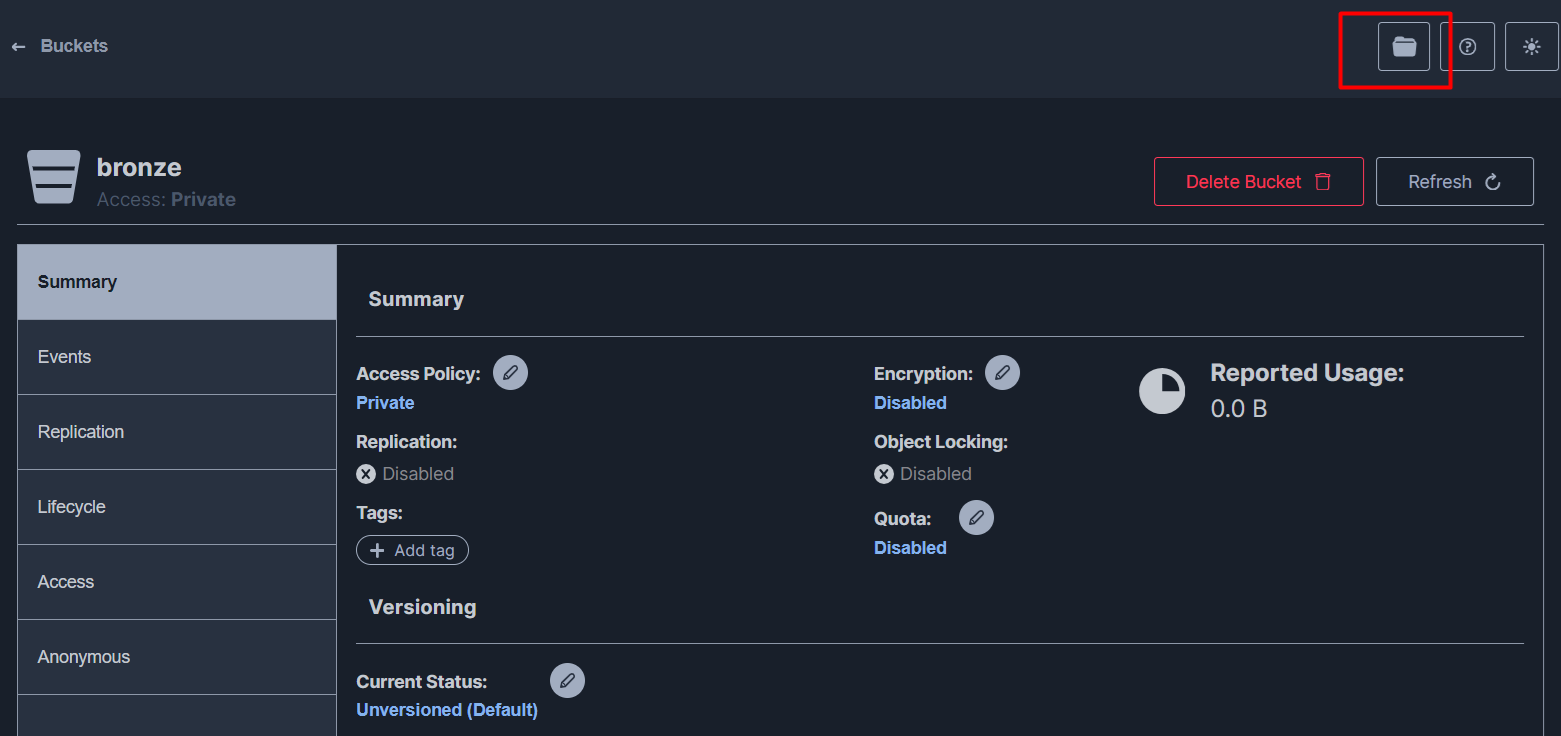
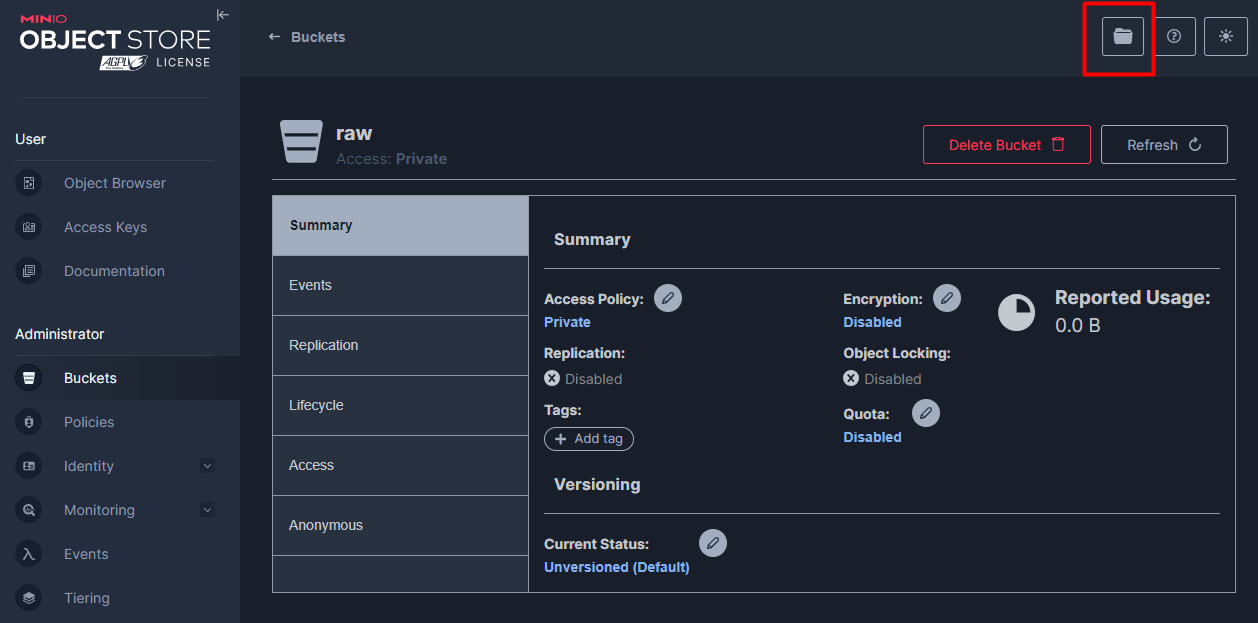
nifi

diff --git a/19.Data-Flow-Nifi/README.md b/19.Data-Flow-Nifi/README.md
@@ -1,5 +1,5 @@
 
-# LAB Mongodb Kafka e Nifi
+# LAB  Nifi
 
 ---
 ## Disclaimer
@@ -27,27 +27,26 @@
 |------------------|--------------|
 |admin|fia@2024@ladata@laboratorio|
 
-https://random-data-api.com/api/v2/users?size=10
 
 ## Criando o Process Group
 
 Process Group (Grupo de Processos) é um agrupador lógico que organiza um conjunto de processadores e outros componentes do fluxo de dados
 
-![Lab](/content/nifi0.png)
+![Lab](/content/nifi-0.png)
 
 
-## Criando o Process 
+## Criando o Processor
 
 Os Processors são os principais componentes do Apache NiFi responsáveis por manipular, transformar e mover dados dentro de um fluxo. Cada Processor tem uma função específica, como ler arquivos, fazer requisições HTTP, converter formatos, filtrar registros, gravar em banco de dados, entre outras.
 
-### Criando nosso primeiro GetFile
+### Criando nosso primeiro processor com o  GetFile
 
 Crie um Process do tipo GetFile 
 
-![Lab](/content/nifi2-0.png)
+![Lab](/content/nifi-2-0.png)
 
 
-### Configurando nosso GetFile
+### Configurando GetFile
 
 |Property|Value|
 |------------------|--------------|
@@ -58,10 +57,10 @@ Crie um Process do tipo GetFile
 > [!IMPORTANT]
 > Configura os dados da aba Scheduling
 
-![Lab](/content/nifi3-0.png)
+![Lab](/content/nifi-3.0.0.png)
 
 
-
+---
 
 ### Parameter Context
 
@@ -71,9 +70,9 @@ No Apache NiFi, Contexto de Parâmetros é um recurso que permite centralizar e 
 
 
 ### Os principais benefícios incluem:
-* ✅ Reutilização – Um único conjunto de parâmetros pode ser aplicado a vários componentes.
-* ✅ Segurança – Parâmetros sensíveis, como credenciais, podem ser protegidos.
-* ✅ Facilidade de Alteração – Ajustes podem ser feitos sem modificar diretamente os fluxos.
+* Reutilização – Um único conjunto de parâmetros pode ser aplicado a vários componentes.
+* Segurança – Parâmetros sensíveis, como credenciais, podem ser protegidos.
+* Facilidade de Alteração – Ajustes podem ser feitos sem modificar diretamente os fluxos.
 
 
 
@@ -93,16 +92,13 @@ No Apache NiFi, Contexto de Parâmetros é um recurso que permite centralizar e 
 |EndPoint-Minio|http://minio:9000|
 
 
-![Lab](/content/nifi5.png)
-
-
 Para atribuir um Contexto de Parâmetro a um Grupo de Processos, clique em Configurar, na Paleta de Operação ou no menu de contexto do Grupo de Processos.
 
 ![Lab](/content/nifi6.png)
 
-### Como usar ??
+### Como usar os parametros nos Processor??
 
-Edita o GetFile
+Edita o GetFile, botão direito, Configure >> Properties
 |Property|Value|
 |------------------|--------------|
 |Input Directory|#{DirectoryCSV}|
@@ -124,7 +120,7 @@ Acesso para o MinIO http://localhost:9001/login
 ### Configurando o MinIO
 
 > [!IMPORTANT]
-> Crie a camada Raw caso não tenha ainda
+> Crie a camada Raw ou Bronze caso não tenha ainda
 
 
 ![MinIO](../content/minio-04.png)
@@ -134,19 +130,22 @@ Acesso para o MinIO http://localhost:9001/login
 
 ![MinIO](../content/minio-07.png)
 
+---
 
 ## Controller Services
 No Apache NiFi, os Controller Services são componentes compartilháveis que fornecem funcionalidades comuns a vários processadores dentro de um fluxo de dados. Eles permitem centralizar configurações e melhorar a eficiência do processamento.
 
 Exemplos de Controller Services:
-* 🔹 DBCPConnectionPool – Gerencia conexões com bancos de dados.
-* 🔹 SSLContextService – Configura SSL/TLS para comunicação segura.
-* 🔹 AvroSchemaRegistry – Define esquemas de dados Avro para validação.
+* DBCPConnectionPool – Gerencia conexões com bancos de dados.
+* SSLContextService – Configura SSL/TLS para comunicação segura.
+* AvroSchemaRegistry – Define esquemas de dados Avro para validação.
 
 ![Lab](/content/nifi7.png)
 
 
-### Criando Controller Services `AWSCredentialsProviderControllerService` para autenticação 
+### Criando Controller Services `AWSCredentialsProviderControllerService` para autenticação do MinIO.
+
+Botão direito, Controller Services.
 
 ![Lab](/content/nifi22-0.png)
 
@@ -161,7 +160,7 @@ Exemplos de Controller Services:
 
 ![Lab](/content/nifi22-2.png)
 
-### Criando o Process `PutS3Object`
+### Criando o Processor `PutS3Object`
 
 
 |Property|Value|
@@ -182,7 +181,7 @@ Na pasta 19.Data-Flow-Nifi\util tem o a arquivo usuarios.csv, copie e cole para 
 ## Criando Input e OutPut Port
 
 
-### Crie um Process Group chamado Nifi
+### Crie um Process Group
 
 ![Lab](/content/nifi23.png)
 
@@ -237,6 +236,6 @@ Isso facilita a governança dos fluxos, permitindo controle de mudanças, rollba
 
 ![Lab](/content/nifi-git-flow.png)
 
-### Faça uma alteração dentro do process grou
+### Faça uma alteração dentro do process group
 
 ![Lab](/content/nifi-flow-git-2.png)
